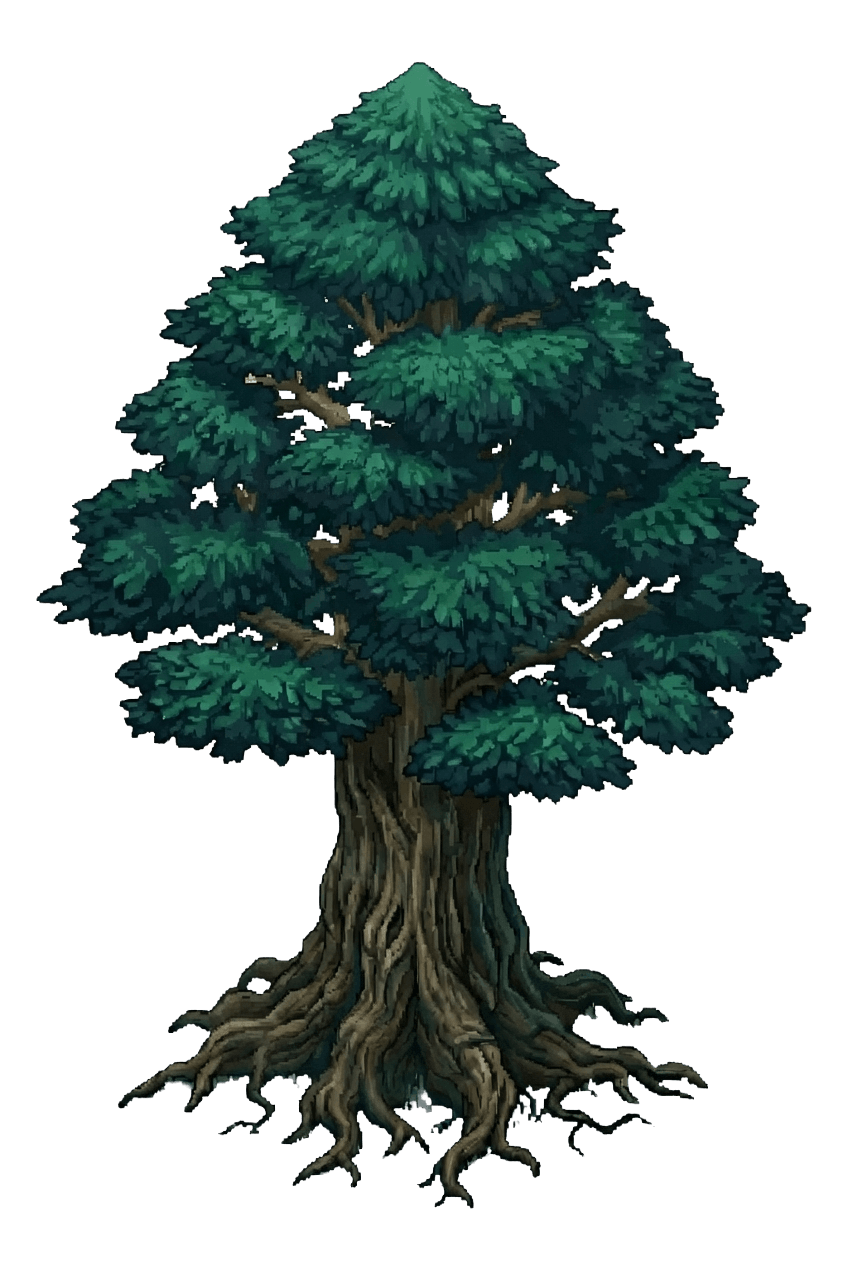
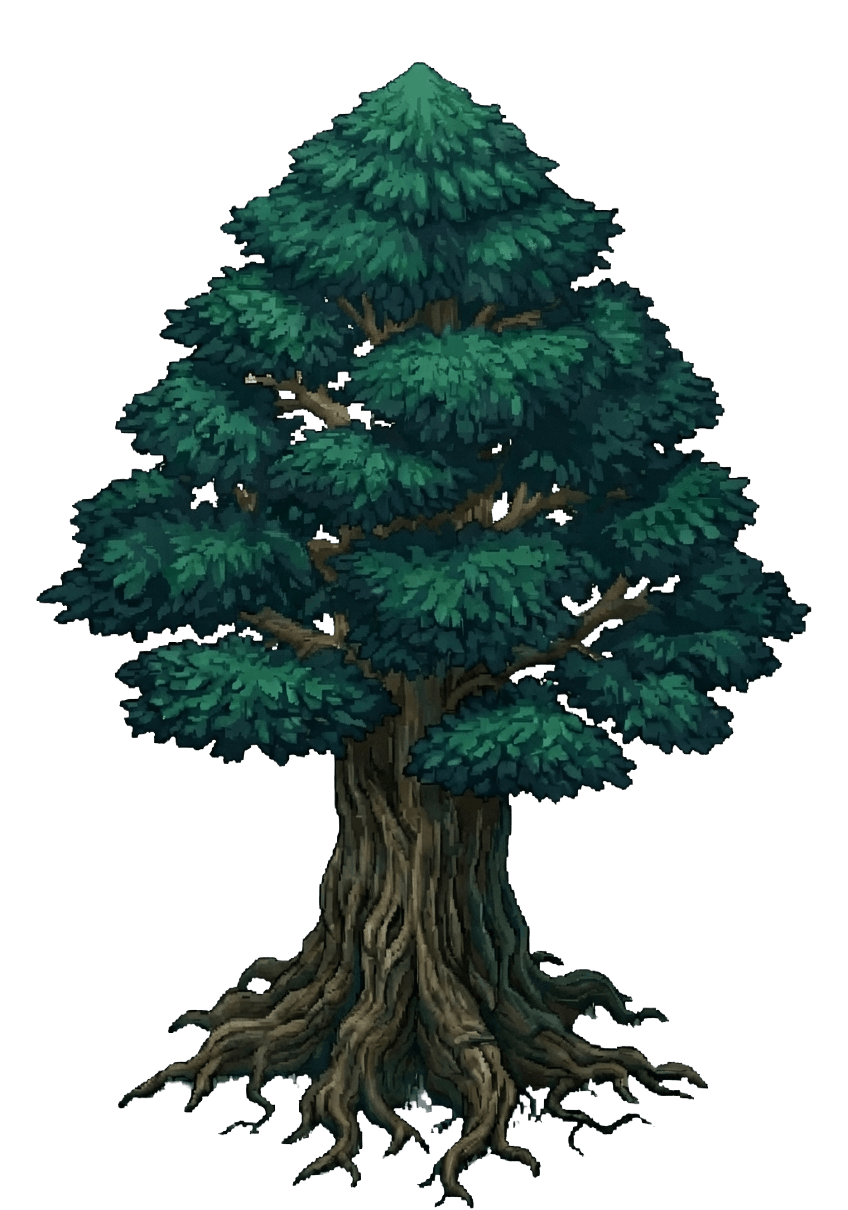
Level collection trees, unify particles into one full-page layer, center hero
- Trimmed bottom transparent padding on all 8 tree PNGs so they sit level on
  the collection grass line
- Replaced per-section particle boxes with a single fixed full-page particle
  layer; particles now drift down the whole site with no arbitrary origin line
- Balanced hero padding to remove top dead space and truly center the content

Changed region(s): [[0.0307, 0.0306, 0.9505, 1.0]]

diff --git a/index.html b/index.html
@@ -72,7 +72,7 @@ body>*:not(.starfield){position:relative;z-index:1}
 /* ---------- HERO ---------- */
 /* No own background — the hero sits directly on the shared fixed starfield so it's
    seamless with every section below it. Balanced padding keeps content centred. */
-.hero{position:relative;min-height:100vh;display:flex;align-items:center;padding:84px 0 48px;overflow:hidden}
+.hero{position:relative;min-height:100vh;display:flex;align-items:center;padding:70px 0 70px;overflow:hidden}
 .hero-inner{position:relative;z-index:5;display:grid;grid-template-columns:1.05fr .95fr;gap:40px;align-items:center;width:100%}
 .hero-copy .pill{display:inline-flex;align-items:center;gap:8px;background:rgba(255,255,255,.08);border:1px solid rgba(255,255,255,.18);color:#dfe9ef;font-weight:700;font-size:14px;padding:7px 16px;border-radius:999px;margin-bottom:22px;backdrop-filter:blur(6px)}
 .hero-copy h1{font-size:clamp(40px,5.6vw,68px);font-weight:900;line-height:1.02;color:#fff;letter-spacing:-1.5px;text-shadow:0 4px 30px rgba(0,0,0,.5)}
@@ -93,9 +93,10 @@ body>*:not(.starfield){position:relative;z-index:1}
 .float-tree.t2{right:-34px;width:92px;bottom:34px;animation:sway 7s ease-in-out infinite reverse}
 .mascot{position:absolute;left:-66px;top:24px;width:116px;z-index:6;filter:drop-shadow(0 12px 18px rgba(0,0,0,.5));animation:bob 4s ease-in-out infinite}
 
-/* particles */
-.particles,.amb{position:absolute;inset:0;z-index:2;pointer-events:none;overflow:hidden}
-.particle{position:absolute;opacity:.55;animation:drift linear infinite}
+/* particles — one fixed full-page layer so they drift down the whole site with
+   no arbitrary origin line (sits just above the starfield, behind content) */
+.particle-field{position:fixed;inset:0;z-index:0;pointer-events:none;overflow:hidden}
+.particle{position:absolute;opacity:.5;animation:drift linear infinite}
 @keyframes sway{0%,100%{transform:rotate(-2deg)}50%{transform:rotate(2deg)}}
 @keyframes bob{0%,100%{transform:translateY(0)}50%{transform:translateY(-12px)}}
 /* hero scene elements ease up from the ground on load so nothing snaps in */
@@ -226,8 +227,9 @@ footer{background:#050a16;padding:56px 0 40px;border-top:1px solid rgba(255,255,
 </style>
 </head>
 <body>
-<!-- shared night starfield behind everything -->
+<!-- shared night starfield + drifting particle layer behind everything -->
 <div class="starfield" id="starfield"></div>
+<div class="particle-field" data-particles></div>
 
 <!-- ===== NAV ===== -->
 <nav id="nav">
@@ -239,7 +241,6 @@ footer{background:#050a16;padding:56px 0 40px;border-top:1px solid rgba(255,255,
 
 <!-- ===== HERO ===== -->
 <header class="hero">
-  <div class="particles" data-particles></div>
   <div class="container hero-inner">
     <div class="hero-copy">
       <span class="pill">🕌 Build a prayer habit that actually sticks</span>
@@ -266,7 +267,6 @@ footer{background:#050a16;padding:56px 0 40px;border-top:1px solid rgba(255,255,
 
 <!-- ===== PRAYER RAIL — the five real prayer-icon scenes ===== -->
 <section class="rail-sec">
-  <div class="amb" data-particles></div>
   <div class="container sec-inner">
     <div class="sec-head reveal">
       <span class="eyebrow">Five prayers, one rhythm</span>
@@ -306,7 +306,6 @@ footer{background:#050a16;padding:56px 0 40px;border-top:1px solid rgba(255,255,
 
 <!-- ===== FEATURES ===== -->
 <section id="features">
-  <div class="amb" data-particles></div>
   <div class="container sec-inner">
 
     <!-- Feature 1: prayer tracking — shown as the REAL app screen -->
@@ -381,7 +380,6 @@ footer{background:#050a16;padding:56px 0 40px;border-top:1px solid rgba(255,255,
 
 <!-- ===== TREE COLLECTION (garden shelf) ===== -->
 <section class="collection">
-  <div class="amb" data-particles></div>
   <div class="container sec-inner">
     <div class="sec-head reveal">
       <span class="eyebrow">Collect them all</span>
@@ -405,7 +403,6 @@ footer{background:#050a16;padding:56px 0 40px;border-top:1px solid rgba(255,255,
 
 <!-- ===== ANYWHERE / NIGHT ===== -->
 <section class="anywhere">
-  <div class="amb" data-particles></div>
   <div class="container">
     <div class="anywhere-inner">
       <div class="reveal">
@@ -474,21 +471,25 @@ addEventListener('scroll',()=>nav.classList.toggle('scrolled',scrollY>40));
 const io=new IntersectionObserver((es)=>es.forEach(e=>{if(e.isIntersecting)e.target.classList.add('in')}),{threshold:.12});
 document.querySelectorAll('.reveal').forEach(el=>io.observe(el));
 
-// ambient drifting leaves/pollen across every [data-particles] layer
+// ambient leaves/pollen drifting down the whole page from one fixed layer.
+// negative delays stagger them so they're already spread top-to-bottom on load
+// (no visible spawn line at any section edge).
 const leafSet=['web-assets/leaf.png','web-assets/pollen.png','web-assets/sparkle.png'];
-document.querySelectorAll('[data-particles]').forEach((pc,idx)=>{
-  const count = idx===0 ? 16 : 8;
+const field=document.querySelector('.particle-field');
+if(field){
+  const count=26;
   for(let i=0;i<count;i++){
     const p=document.createElement('img');
     p.className='particle';
-    p.src=leafSet[(i+idx)%leafSet.length];
-    p.style.width=(10+Math.random()*22)+'px';
+    p.src=leafSet[i%leafSet.length];
+    const dur=11+Math.random()*12;
+    p.style.width=(10+Math.random()*20)+'px';
     p.style.left=Math.random()*100+'%';
-    p.style.animationDuration=(9+Math.random()*11)+'s';
-    p.style.animationDelay=(-Math.random()*14)+'s';
-    pc.appendChild(p);
+    p.style.animationDuration=dur+'s';
+    p.style.animationDelay=(-Math.random()*dur)+'s'; // spread across the full cycle
+    field.appendChild(p);
   }
-});
+}
 </script>
 </body>
 </html>
